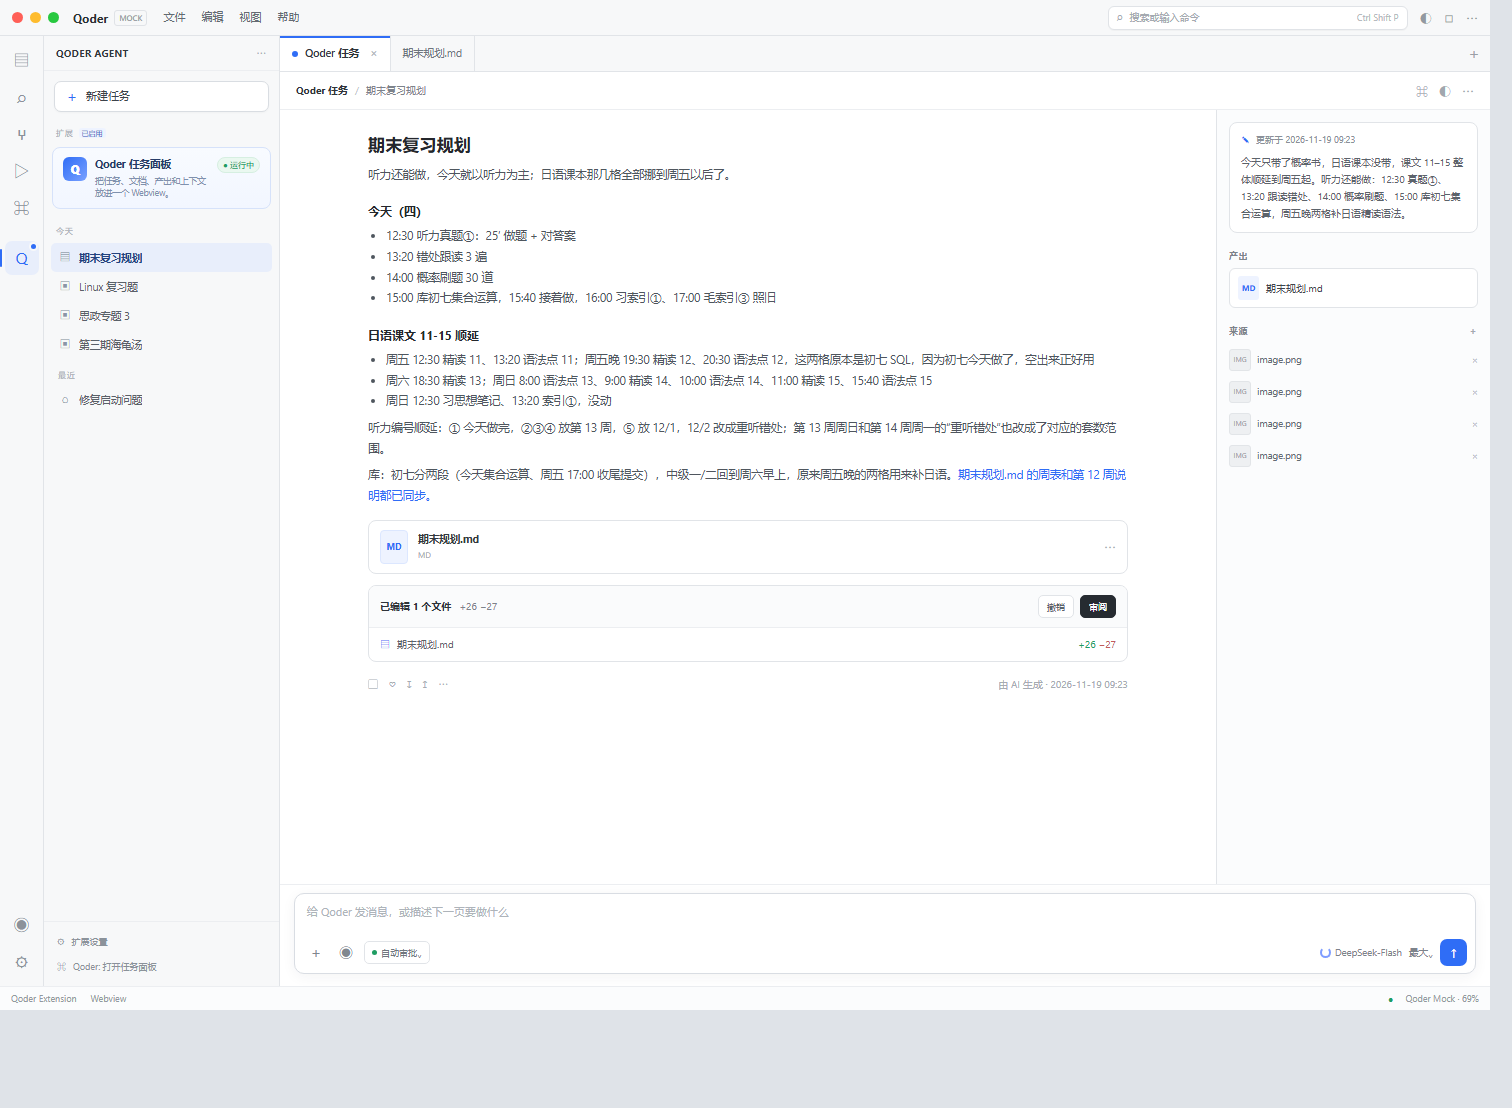
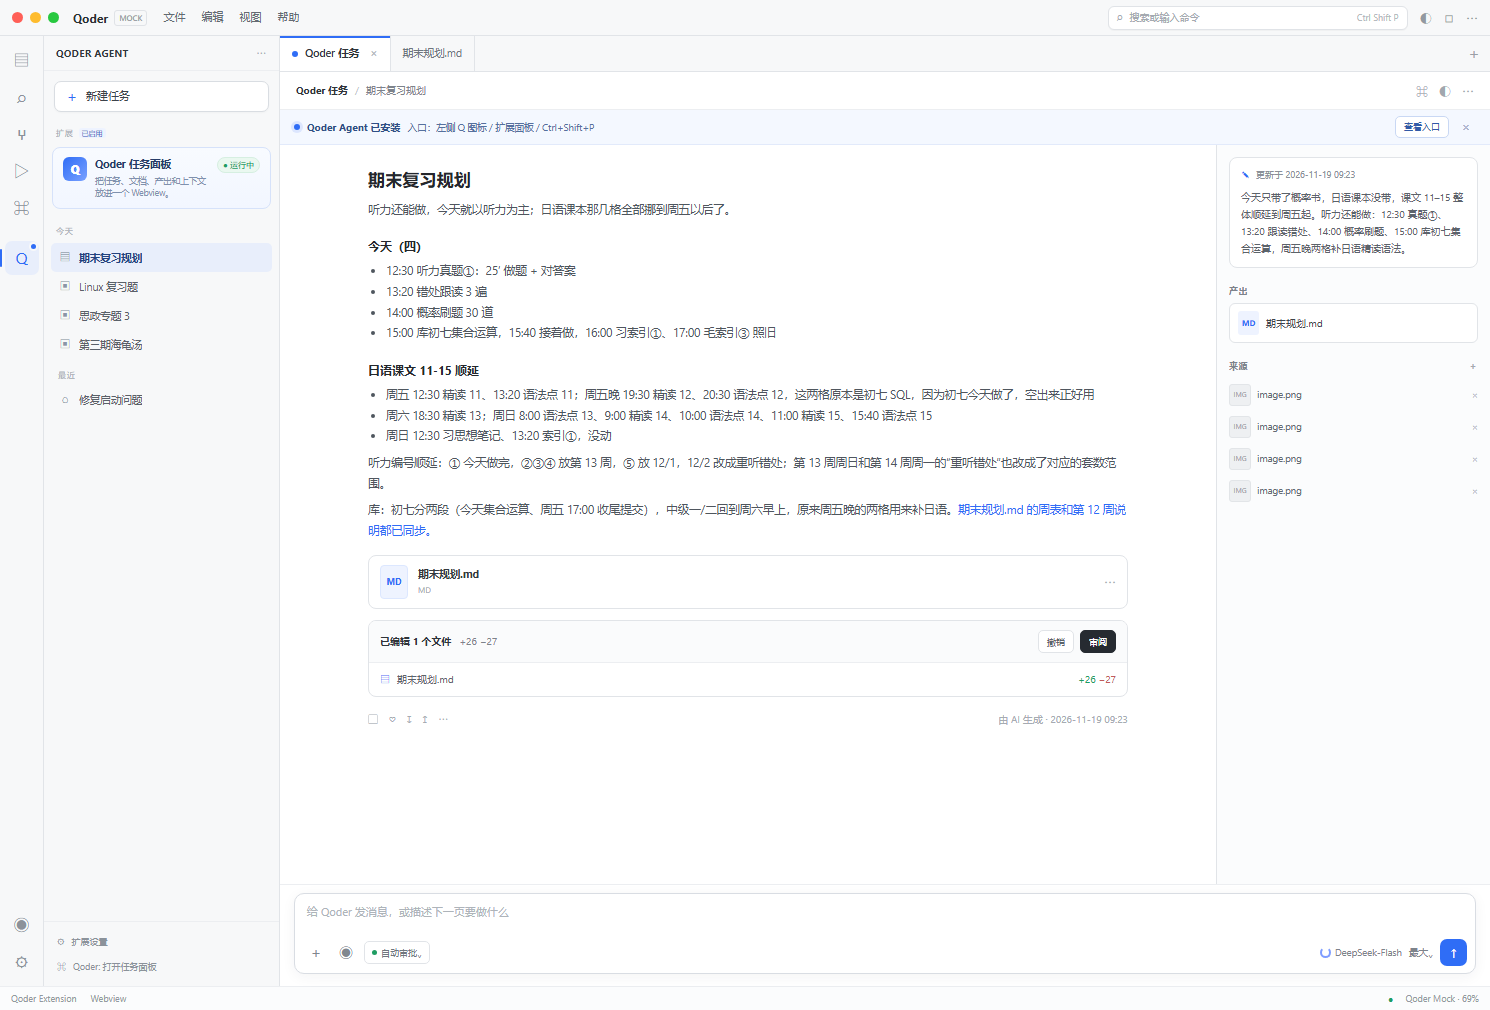
docs(v35): Qoder 扩展入口面板与演示

diff --git a/docs/design/v35/qoder/qoder-extension.html b/docs/design/v35/qoder/qoder-extension.html
@@ -120,7 +120,7 @@ button{border:0;background:none;padding:0;cursor:pointer}
 .palette .item{display:flex;align-items:center;gap:8px;padding:8px 13px;font-size:10px;color:#5d646c;cursor:pointer}.palette .item:hover,.palette .item.sel{background:#eef3ff;color:#294b94}
 .palette .hint{margin-left:auto;color:#b0b5bb;font-size:8px}
 .toast{position:fixed;left:50%;bottom:22px;transform:translate(-50%,8px);background:#22262b;color:#fff;font-size:10px;padding:7px 12px;border-radius:6px;opacity:0;pointer-events:none;transition:.2s;z-index:40}.toast.on{opacity:1;transform:translate(-50%,0)}
-@media (max-width:1050px){.inspector{display:none}.wvbody{grid-template-columns:1fr}.side{width:210px}.command{width:210px}}
+.demo-banner{flex:none;display:flex;align-items:center;gap:7px;padding:6px 14px;background:#f4f8ff;border-bottom:1px solid #e2eafb;color:#55709e;font-size:9.5px}.demo-banner b{color:#2f4f86;font-size:10px}.demo-dot{width:6px;height:6px;border-radius:50%;background:#2f6df6;box-shadow:0 0 0 3px rgba(47,109,246,.12)}.demo-btn{margin-left:auto;height:22px;border:1px solid #c9d8f4;background:#fff;color:#315aa7;border-radius:5px;padding:0 8px;font-size:9px}.demo-x{width:20px;height:20px;color:#93a3bd;font-size:13px}.ext-mask{position:fixed;inset:0;background:rgba(20,26,34,.2);display:none;align-items:center;justify-content:center;z-index:32;backdrop-filter:blur(1px)}.ext-mask.open{display:flex}.ext-panel{width:min(520px,92vw);background:#fff;border:1px solid #d9dde3;border-radius:10px;box-shadow:0 24px 70px rgba(20,30,45,.24);overflow:hidden}.ext-title{height:36px;display:flex;align-items:center;padding:0 13px;border-bottom:1px solid #eceef1;font-size:10px;color:#6f767e}.ext-title b{color:#2f3339;margin-left:5px}.ext-body{padding:13px}.ext-card{border:1px solid #dce4f2;background:#f8fbff;border-radius:8px;padding:11px;display:flex;align-items:flex-start;gap:9px}.ext-logo{width:30px;height:30px;border-radius:7px;background:linear-gradient(135deg,#2f6df6,#79a1ff);color:#fff;display:flex;align-items:center;justify-content:center;font-weight:800;font-size:13px;flex:none}.ext-card b{display:block;font-size:11px;color:#263b60}.ext-card small{display:block;font-size:9px;color:#7f8fa8;line-height:1.55;margin-top:3px}.ext-open{margin-left:auto;height:27px;border:1px solid #2f6df6;background:#2f6df6;color:#fff;border-radius:6px;padding:0 10px;font-size:9px;white-space:nowrap}.ext-meta{font-size:8.5px;color:#9aa5b5;margin-top:10px;line-height:1.7}.ext-close{margin-left:auto;color:#9aa0a7;font-size:14px}@media (max-width:1050px){.inspector{display:none}.wvbody{grid-template-columns:1fr}.side{width:210px}.command{width:210px}}
 </style>
 </head>
 <body>
@@ -139,7 +139,7 @@ button{border:0;background:none;padding:0;cursor:pointer}
       <button class="act" title="搜索">⌕</button>
       <button class="act" title="源代码管理">⑂</button>
       <button class="act" title="运行和调试">▷</button>
-      <button class="act" title="扩展">⌘</button>
+      <button class="act" id="extAct" title="扩展" onclick="showExtensions()">⌘</button>
       <div style="height:10px"></div>
       <button class="act active" id="qAct" title="Qoder 任务面板" onclick="toggleQoder()">Q<span class="badge"></span></button>
       <button class="act spacer" title="账户">◉</button>
@@ -175,6 +175,7 @@ button{border:0;background:none;padding:0;cursor:pointer}
       </div>
       <div class="webview">
         <div class="wvhead"><span class="crumb">Qoder 任务</span><span class="sep">/</span><span id="crumb">期末复习规划</span><div class="right"><span>⌘</span><span>◐</span><span>⋯</span></div></div>
+        <div class="demo-banner" id="demoBanner"><span class="demo-dot"></span><b>Qoder Agent 已安装</b><span>入口：左侧 Q 图标 / 扩展面板 / Ctrl+Shift+P</span><button class="demo-btn" onclick="showExtensions()">查看入口</button><button class="demo-x" onclick="document.getElementById('demoBanner').remove()">×</button></div>
         <div class="wvbody">
           <div class="docwrap"><div class="doc" id="doc"></div></div>
           <aside class="inspector">
@@ -203,6 +204,15 @@ button{border:0;background:none;padding:0;cursor:pointer}
     <div class="item" onclick="toast('Qoder: 刷新上下文（模拟）')">Qoder: 刷新上下文<span class="hint">⌘R</span></div>
   </div>
 </div>
+<div class="ext-mask" id="extModal" onclick="if(event.target===this)closeExtensions()">
+  <div class="ext-panel">
+    <div class="ext-title"><span>扩展</span><b>Qoder Agent</b><button class="ext-close" onclick="closeExtensions()">×</button></div>
+    <div class="ext-body">
+      <div class="ext-card"><div class="ext-logo">Q</div><div><b>Qoder Agent</b><small>把任务、文档、产出和上下文放进一个 Webview。已安装 · 已启用。</small></div><button class="ext-open" onclick="openFromExtensions()">打开任务面板</button></div>
+      <div class="ext-meta">入口：左侧 Activity Bar 的 Q 图标，或 Ctrl+Shift+P 执行“Qoder: 打开任务面板”。这是模拟演示，不会真的安装扩展。</div>
+    </div>
+  </div>
+</div>
 <div class="toast" id="toast"></div>
 <script>
 const finalDoc=`<h1>期末复习规划</h1><p>听力还能做，今天就以听力为主；日语课本那几格全部挪到周五以后了。</p><h2>今天（四）</h2><ul><li>12:30 听力真题①：25′ 做题 + 对答案</li><li>13:20 错处跟读 3 遍</li><li>14:00 概率刷题 30 道</li><li>15:00 库初七集合运算，15:40 接着做，16:00 习索引①、17:00 毛索引③ 照旧</li></ul><h2>日语课文 11-15 顺延</h2><ul><li>周五 12:30 精读 11、13:20 语法点 11；周五晚 19:30 精读 12、20:30 语法点 12，这两格原本是初七 SQL，因为初七今天做了，空出来正好用</li><li>周六 18:30 精读 13；周日 8:00 语法点 13、9:00 精读 14、10:00 语法点 14、11:00 精读 15、15:40 语法点 15</li><li>周日 12:30 习思想笔记、13:20 索引①，没动</li></ul><p>听力编号顺延：① 今天做完，②③④ 放第 13 周，⑤ 放 12/1，12/2 改成重听错处；第 13 周周日和第 14 周周一的“重听错处”也改成了对应的套数范围。</p><p>库：初七分两段（今天集合运算、周五 17:00 收尾提交），中级一/二回到周六早上，原来周五晚的两格用来补日语。<span class="blue">期末规划.md 的周表和第 12 周说明都已同步。</span></p><div class="filecard"><div class="file-ic">MD</div><div><div class="file-name">期末规划.md</div><div class="file-type">MD</div></div><div class="more">⋯</div></div><div class="editcard"><div class="edit-head"><b>已编辑 1 个文件</b><span class="soft">+26 −27</span><div class="actions"><button class="small" onclick="toast('已撤销（模拟）')">撤销</button><button class="small primary" onclick="toast('审阅面板（模拟）')">审阅</button></div></div><div class="edit-row"><span style="color:#2f6df6">▤</span><span>期末规划.md</span><span class="num">+26 <span>−27</span></span></div></div><div class="docfooter"><span>▢</span><span>♡</span><span>↧</span><span>↥</span><span>⋯</span><span class="sp">由 AI 生成 · 2026-11-19 09:23</span></div>`;
@@ -213,6 +223,9 @@ const pages={
  bug:{title:'修复启动问题',note:'启动失败：先看日志、再复现、最后最小修复并验证。',html:`<h1>修复启动问题</h1><h2>现象</h2><p>最新构建启动 2 秒后退出，控制台无堆栈。</p><h2>排查</h2><ul><li>查看启动日志最后 100 行</li><li>对比上一版配置差异</li><li>用最小配置复现</li></ul>`}
 };
 const doc=document.getElementById('doc');doc.innerHTML=finalDoc;
+function showExtensions(){document.getElementById('extModal').classList.add('open')}
+function closeExtensions(){document.getElementById('extModal').classList.remove('open')}
+function openFromExtensions(){closeExtensions();document.getElementById('qSide').style.display='flex';document.getElementById('qAct').classList.add('active');toast('已从扩展面板打开 Qoder 任务面板')}
 function toast(m){const t=document.getElementById('toast');t.textContent=m;t.classList.add('on');clearTimeout(t._t);t._t=setTimeout(()=>t.classList.remove('on'),1400)}
 function setTask(key){
  const el=document.querySelector('.task[data-task="'+key+'"]');if(!el)return;

diff --git a/docs/design/v35/qoder/README.md b/docs/design/v35/qoder/README.md
@@ -1,32 +1,24 @@
 # Qoder 扩展 Webview 模拟
 
-`qoder-extension.html` 模拟的是 Qoder 扩展，不是 DSH 插件。
+`qoder-extension.html` 模拟 Qoder 扩展，不是 DSH 插件。
 
-## 入口
+## 入口（三个都能打开）
 
-左侧 Activity Bar 的 `Q` 图标：
+1. 左侧 Activity Bar 的蓝色 `Q` 图标
+2. 左侧扩展图标 `⌘` → Qoder Agent → 打开任务面板
+3. `Ctrl+Shift+P` → `Qoder: 打开任务面板`
 
-- 点击打开 / 收起 Qoder 任务侧栏
-- 侧栏顶部 `Qoder 任务面板` 显示扩展已启用
-- `Ctrl+Shift+P` 命令面板执行 `Qoder: 打开任务面板`
+## 演示
 
-## 页面
-
-- 期末复习规划
-- Linux 复习题
-- 思政专题 3
-- 第三期海龟汤
-- 修复启动问题
-
-## 交互
-
-- 点任务切换 Webview 文档
+- 点任务切换 Webview 页面
 - 新建任务
 - Webview 底部发送消息
-- 关闭/重新打开侧栏
+- Q 图标收起/打开侧栏
+- 扩展面板确认已安装
 - Esc 关闭命令面板
 
 ## 文件
 
 - `qoder-extension.html`
 - `qoder-extension.png`
+- `qoder-extensions.png`
